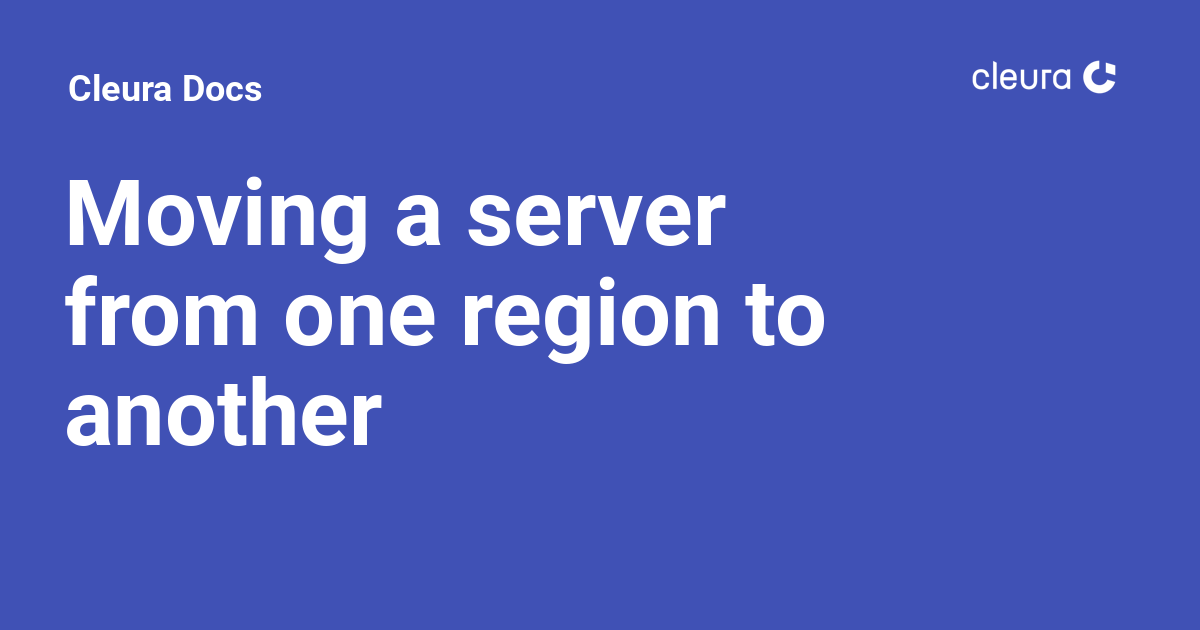
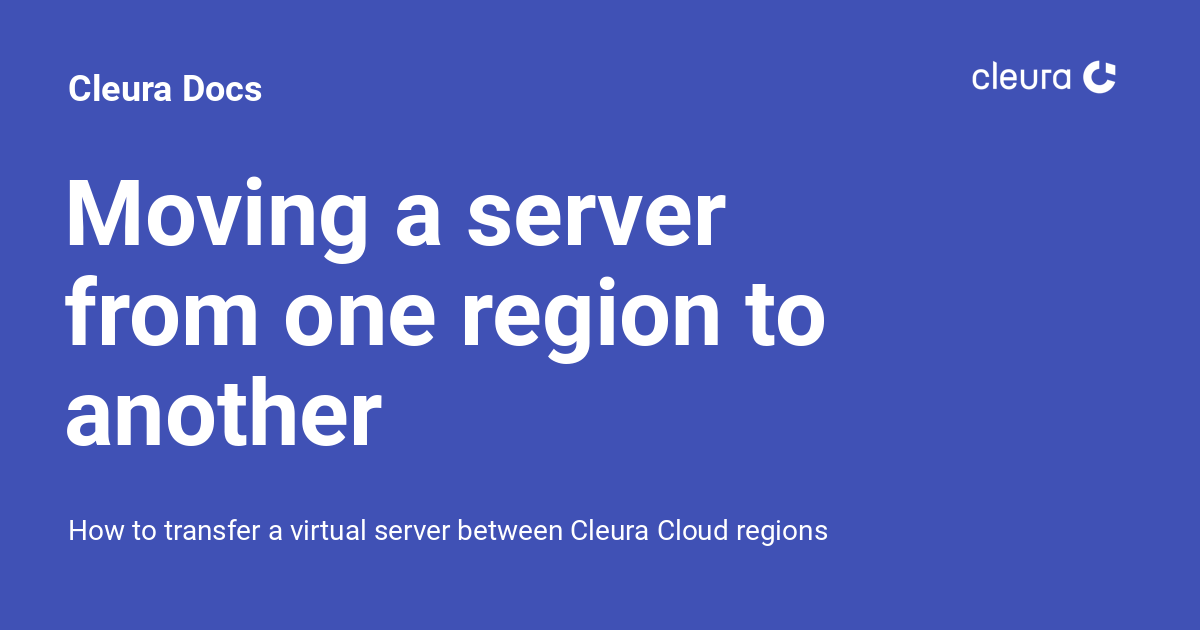
Deployed 247cce5 with MkDocs version: 1.5.3

Changed region(s): [[0.0617, 0.8143, 0.6783, 0.8746]]

diff --git a/howto/openstack/nova/new-vgpu-server/index.html b/howto/openstack/nova/new-vgpu-server/index.html
@@ -6,6 +6,8 @@
       <meta charset="utf-8">
       <meta name="viewport" content="width=device-width,initial-scale=1">
       
+        <meta name="description" content="How to create a virtual server with graphics processing unit (GPU) support in Cleura Cloud">
+      
       
       
         <link rel="canonical" href="https://docs.cleura.cloud/howto/openstack/nova/new-vgpu-server/">
@@ -68,7 +70,7 @@
       
         <meta  property="og:title"  content="Creating new servers with virtual GPU support - Cleura Docs" >
       
-        <meta  property="og:description"  content="None" >
+        <meta  property="og:description"  content="How to create a virtual server with graphics processing unit (GPU) support in Cleura Cloud" >
       
         <meta  property="og:image"  content="https://docs.cleura.cloud/assets/images/social/howto/openstack/nova/new-vgpu-server.png" >
       
@@ -84,7 +86,7 @@
       
         <meta  name="twitter:title"  content="Creating new servers with virtual GPU support - Cleura Docs" >
       
-        <meta  name="twitter:description"  content="None" >
+        <meta  name="twitter:description"  content="How to create a virtual server with graphics processing unit (GPU) support in Cleura Cloud" >
       
         <meta  name="twitter:image"  content="https://docs.cleura.cloud/assets/images/social/howto/openstack/nova/new-vgpu-server.png" >
       
@@ -4178,7 +4180,7 @@ which is installed by default in the <code>Ubuntu 22.04 NVGRID x86_64</code> 
   <small>
     
       Last update:
-      <span class="git-revision-date-localized-plugin git-revision-date-localized-plugin-iso_date">2023-10-24</span>
+      <span class="git-revision-date-localized-plugin git-revision-date-localized-plugin-iso_date">2023-12-14</span>
       
         <br>
         Created:

diff --git a/howto/openstack/nova/move-server-between-regions/index.html b/howto/openstack/nova/move-server-between-regions/index.html
@@ -6,6 +6,8 @@
       <meta charset="utf-8">
       <meta name="viewport" content="width=device-width,initial-scale=1">
       
+        <meta name="description" content="How to transfer a virtual server between Cleura Cloud regions">
+      
       
       
         <link rel="canonical" href="https://docs.cleura.cloud/howto/openstack/nova/move-server-between-regions/">
@@ -68,7 +70,7 @@
       
         <meta  property="og:title"  content="Moving a server from one region to another - Cleura Docs" >
       
-        <meta  property="og:description"  content="None" >
+        <meta  property="og:description"  content="How to transfer a virtual server between Cleura Cloud regions" >
       
         <meta  property="og:image"  content="https://docs.cleura.cloud/assets/images/social/howto/openstack/nova/move-server-between-regions.png" >
       
@@ -84,7 +86,7 @@
       
         <meta  name="twitter:title"  content="Moving a server from one region to another - Cleura Docs" >
       
-        <meta  name="twitter:description"  content="None" >
+        <meta  name="twitter:description"  content="How to transfer a virtual server between Cleura Cloud regions" >
       
         <meta  name="twitter:image"  content="https://docs.cleura.cloud/assets/images/social/howto/openstack/nova/move-server-between-regions.png" >
       
@@ -4428,7 +4430,7 @@ the time to attach those volumes to the server.</p>
   <small>
     
       Last update:
-      <span class="git-revision-date-localized-plugin git-revision-date-localized-plugin-iso_date">2023-08-14</span>
+      <span class="git-revision-date-localized-plugin git-revision-date-localized-plugin-iso_date">2023-12-14</span>
       
         <br>
         Created:

diff --git a/howto/openstack/nova/resize-server/index.html b/howto/openstack/nova/resize-server/index.html
@@ -6,6 +6,8 @@
       <meta charset="utf-8">
       <meta name="viewport" content="width=device-width,initial-scale=1">
       
+        <meta name="description" content="How to adjust the number of CPU cores and amount of memory for a virtual server">
+      
       
       
         <link rel="canonical" href="https://docs.cleura.cloud/howto/openstack/nova/resize-server/">
@@ -68,7 +70,7 @@
       
         <meta  property="og:title"  content="Resizing a server - Cleura Docs" >
       
-        <meta  property="og:description"  content="None" >
+        <meta  property="og:description"  content="How to adjust the number of CPU cores and amount of memory for a virtual server" >
       
         <meta  property="og:image"  content="https://docs.cleura.cloud/assets/images/social/howto/openstack/nova/resize-server.png" >
       
@@ -84,7 +86,7 @@
       
         <meta  name="twitter:title"  content="Resizing a server - Cleura Docs" >
       
-        <meta  name="twitter:description"  content="None" >
+        <meta  name="twitter:description"  content="How to adjust the number of CPU cores and amount of memory for a virtual server" >
       
         <meta  name="twitter:image"  content="https://docs.cleura.cloud/assets/images/social/howto/openstack/nova/resize-server.png" >
       
@@ -4201,7 +4203,7 @@ the resize with the following command:</p>
   <small>
     
       Last update:
-      <span class="git-revision-date-localized-plugin git-revision-date-localized-plugin-iso_date">2023-08-14</span>
+      <span class="git-revision-date-localized-plugin git-revision-date-localized-plugin-iso_date">2023-12-14</span>
       
         <br>
         Created:

diff --git a/howto/openstack/nova/config-drive/index.html b/howto/openstack/nova/config-drive/index.html
@@ -6,6 +6,8 @@
       <meta charset="utf-8">
       <meta name="viewport" content="width=device-width,initial-scale=1">
       
+        <meta name="description" content="How to launch a virtual server with config drive support">
+      
       
       
         <link rel="canonical" href="https://docs.cleura.cloud/howto/openstack/nova/config-drive/">
@@ -68,7 +70,7 @@
       
         <meta  property="og:title"  content="Launching a server with a configuration drive - Cleura Docs" >
       
-        <meta  property="og:description"  content="None" >
+        <meta  property="og:description"  content="How to launch a virtual server with config drive support" >
       
         <meta  property="og:image"  content="https://docs.cleura.cloud/assets/images/social/howto/openstack/nova/config-drive.png" >
       
@@ -84,7 +86,7 @@
       
         <meta  name="twitter:title"  content="Launching a server with a configuration drive - Cleura Docs" >
       
-        <meta  name="twitter:description"  content="None" >
+        <meta  name="twitter:description"  content="How to launch a virtual server with config drive support" >
       
         <meta  name="twitter:image"  content="https://docs.cleura.cloud/assets/images/social/howto/openstack/nova/config-drive.png" >
       
@@ -4071,7 +4073,7 @@ by monitoring the server console log:</p>
   <small>
     
       Last update:
-      <span class="git-revision-date-localized-plugin git-revision-date-localized-plugin-iso_date">2022-11-29</span>
+      <span class="git-revision-date-localized-plugin git-revision-date-localized-plugin-iso_date">2023-12-14</span>
       
         <br>
         Created:

diff --git a/howto/openstack/nova/new-server/index.html b/howto/openstack/nova/new-server/index.html
@@ -6,6 +6,8 @@
       <meta charset="utf-8">
       <meta name="viewport" content="width=device-width,initial-scale=1">
       
+        <meta name="description" content="How to create a new virtual server in Cleura Cloud">
+      
       
       
         <link rel="canonical" href="https://docs.cleura.cloud/howto/openstack/nova/new-server/">
@@ -68,7 +70,7 @@
       
         <meta  property="og:title"  content="Creating new servers - Cleura Docs" >
       
-        <meta  property="og:description"  content="None" >
+        <meta  property="og:description"  content="How to create a new virtual server in Cleura Cloud" >
       
         <meta  property="og:image"  content="https://docs.cleura.cloud/assets/images/social/howto/openstack/nova/new-server.png" >
       
@@ -84,7 +86,7 @@
       
         <meta  name="twitter:title"  content="Creating new servers - Cleura Docs" >
       
-        <meta  name="twitter:description"  content="None" >
+        <meta  name="twitter:description"  content="How to create a new virtual server in Cleura Cloud" >
       
         <meta  name="twitter:image"  content="https://docs.cleura.cloud/assets/images/social/howto/openstack/nova/new-server.png" >
       
@@ -4354,7 +4356,7 @@ securely connect to your server via SSH.</p>
   <small>
     
       Last update:
-      <span class="git-revision-date-localized-plugin git-revision-date-localized-plugin-iso_date">2023-12-13</span>
+      <span class="git-revision-date-localized-plugin git-revision-date-localized-plugin-iso_date">2023-12-14</span>
       
         <br>
         Created:

diff --git a/howto/openstack/nova/rescue-server/index.html b/howto/openstack/nova/rescue-server/index.html
@@ -6,6 +6,8 @@
       <meta charset="utf-8">
       <meta name="viewport" content="width=device-width,initial-scale=1">
       
+        <meta name="description" content="How to access a virtual server in rescue mode">
+      
       
       
         <link rel="canonical" href="https://docs.cleura.cloud/howto/openstack/nova/rescue-server/">
@@ -68,7 +70,7 @@
       
         <meta  property="og:title"  content="Rescuing a server - Cleura Docs" >
       
-        <meta  property="og:description"  content="None" >
+        <meta  property="og:description"  content="How to access a virtual server in rescue mode" >
       
         <meta  property="og:image"  content="https://docs.cleura.cloud/assets/images/social/howto/openstack/nova/rescue-server.png" >
       
@@ -84,7 +86,7 @@
       
         <meta  name="twitter:title"  content="Rescuing a server - Cleura Docs" >
       
-        <meta  name="twitter:description"  content="None" >
+        <meta  name="twitter:description"  content="How to access a virtual server in rescue mode" >
       
         <meta  name="twitter:image"  content="https://docs.cleura.cloud/assets/images/social/howto/openstack/nova/rescue-server.png" >
       
@@ -4113,7 +4115,7 @@ Rescue.</p>
   <small>
     
       Last update:
-      <span class="git-revision-date-localized-plugin git-revision-date-localized-plugin-iso_date">2023-04-13</span>
+      <span class="git-revision-date-localized-plugin git-revision-date-localized-plugin-iso_date">2023-12-14</span>
       
         <br>
         Created:
